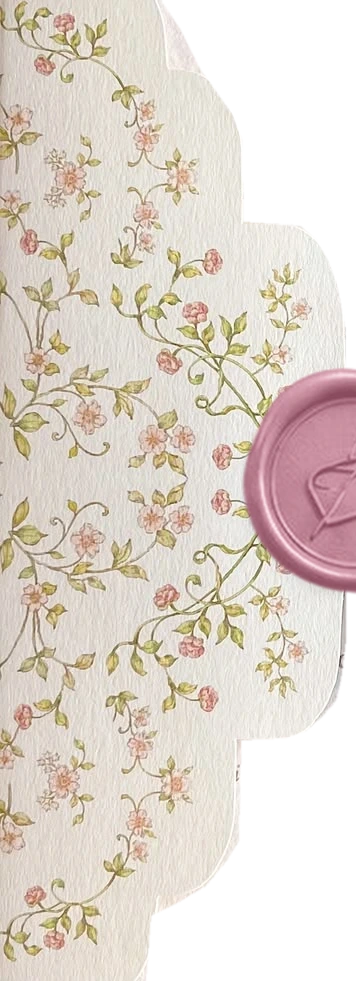
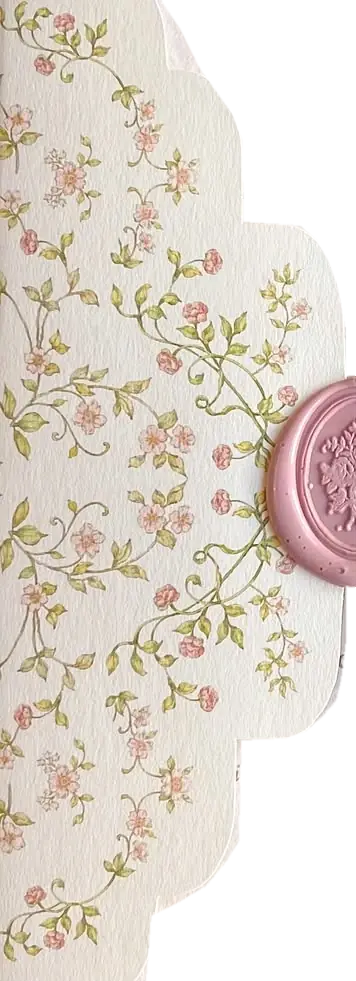
Update gates, add Great Vibes font

Changed region(s): [[0.6798, 0.367, 1.0, 0.6116]]

diff --git a/index.html b/index.html
@@ -8,12 +8,11 @@
 <meta name="theme-color" content="#5e4558">
 <link rel="preconnect" href="https://fonts.googleapis.com">
 <link rel="preconnect" href="https://fonts.gstatic.com" crossorigin>
-<!-- the intro's images first; Google Fonts load without blocking the first paint -->
-<link rel="preload" as="image" href="assets/poster.webp" fetchpriority="high">
-<link rel="preload" as="font" type="font/woff2" href="assets/fonts/PinyonScript.woff2" crossorigin>
-<link rel="stylesheet" href="https://fonts.googleapis.com/css2?family=Aref+Ruqaa&family=Great+Vibes&family=Tajawal:wght@400;500;700&family=Amiri:wght@400;700&display=swap" media="print" onload="this.media='all'">
-<noscript><link rel="stylesheet" href="https://fonts.googleapis.com/css2?family=Aref+Ruqaa&family=Great+Vibes&family=Tajawal:wght@400;500;700&family=Amiri:wght@400;700&display=swap"></noscript>
+<!-- the intro only needs its backdrop, the doors and Great Vibes (self-hosted below); Google Fonts are for the page behind it and load after the first paint -->
+<link rel="preload" as="image" href="assets/poster.webp">
+<noscript><link rel="stylesheet" href="https://fonts.googleapis.com/css2?family=Aref+Ruqaa&family=Tajawal:wght@400;500;700&family=Amiri:wght@400;700&display=swap"></noscript>
 <style>
+@font-face{font-family:"Great Vibes";src:url("assets/fonts/GreatVibes.woff2") format("woff2");font-weight:400;font-display:swap}
 @font-face{font-family:"Pinyon Script";src:url("assets/fonts/PinyonScript.woff2") format("woff2");font-weight:400;font-display:swap}
 @font-face{font-family:"Cormorant Garamond";src:url("assets/fonts/CormorantGaramond-Italic.woff2") format("woff2");font-weight:500;font-style:italic;font-display:swap}
 :root{
@@ -46,6 +45,8 @@ body{
   -webkit-tap-highlight-color:transparent;
 }
 body.locked{overflow:hidden;height:100vh}
+/* the clip sits under the intro until it opens; hiding it keeps its overlay images from being measured as the page's LCP */
+body.locked .video-frame{visibility:hidden}
 
 /* ---------- intro / envelope ---------- */
 #intro{
@@ -674,11 +675,15 @@ function renderWishes() {
 }
 renderWishes();
 
-// heavy media (clip + its text-repair sprites) and the wishes request wait until the first paint is done
+// Google Fonts, heavy media (clip + its text-repair sprites) and the wishes request wait until the first paint is done
 let mediaLoaded = false;
 function loadMedia() {
   if (mediaLoaded) return;
   mediaLoaded = true;
+  document.head.append(Object.assign(document.createElement("link"), {
+    rel: "stylesheet",
+    href: "https://fonts.googleapis.com/css2?family=Aref+Ruqaa&family=Tajawal:wght@400;500;700&family=Amiri:wght@400;700&display=swap",
+  }));
   document.querySelectorAll(".video-text image[data-href]").forEach(img => img.setAttribute("href", img.dataset.href));
   $("vid").preload = "auto";
   loadWishes();
